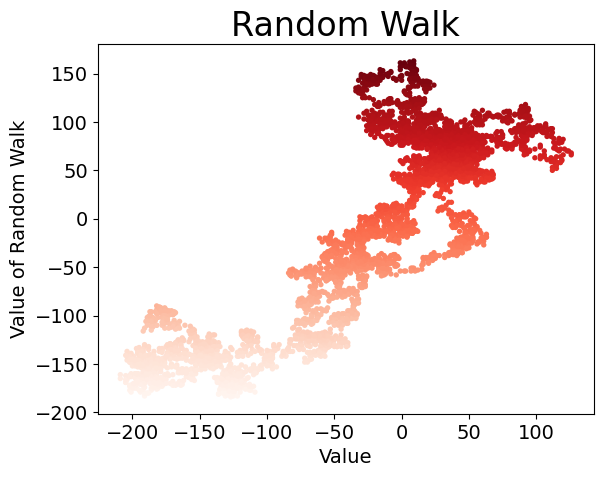
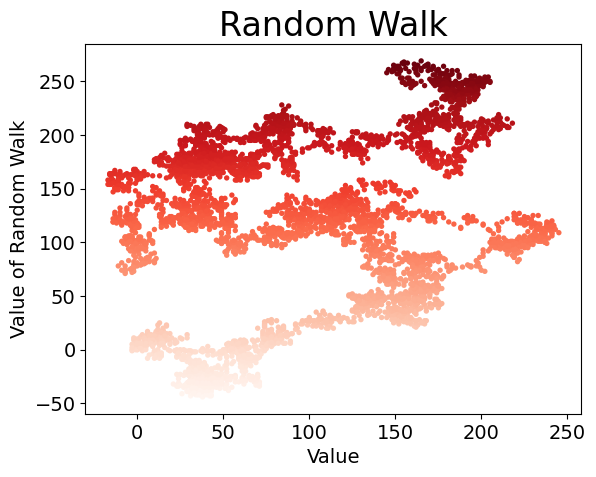
New change!

diff --git a/[3]Tools/Python/笔记/代码/k8/plot_rw_visual.py b/[3]Tools/Python/笔记/代码/k8/plot_rw_visual.py
@@ -1,0 +1,70 @@
+import matplotlib.pyplot as plt
+from random_walk import RandomWalk
+# ScalarMappable 用于创建映射关系，Normalize 用于规范化数值
+from matplotlib.cm import ScalarMappable
+from matplotlib.colors import Normalize
+
+if __name__ == '__main__':
+    # 创建一个RandomWalk实例，并将他包含的点都绘制出来
+    rw = RandomWalk()
+    rw.fill_walk()
+
+    # 设置绘图窗口的尺寸
+    plt.figure(dpi=128, figsize=(10, 6))
+
+    # Create a ScalarMappable to map values to colors
+    # 创建一个ScalarMappable对象，用于将数值映射到颜色
+    # 这里使用蓝色色图(cmap=plt.cm.Blues)，并设置归一化对象norm
+    # Normalize 类是 Matplotlib 的一部分，用于将数据值归一化到 [0, 1] 范围内。默认情况下，它对数据进行线性缩放。
+    # norm = Normalize()
+    # 颜色覆盖整个路径
+    norm = Normalize(vmin=0, vmax=len(rw.x_values))
+    # ScalarMappabl是Matplotlib中的一个对象，用于将数据值与颜色关联起来。
+    # 通常用于将一系列数据值映射到一个颜色映射上。
+    # cmap = plt.cm.Blues指定要使用的颜色映射。
+    # 在这种情况下，是一个蓝色颜色映射。你可以根据需要选择不同的颜色映射。
+    # norm = norm设置颜色映射的标准化方式，确保数据值正确映射到颜色映射上。
+    sm = ScalarMappable(cmap=plt.cm.Blues, norm=norm)
+    # 这一行将一个空数组设置给ScalarMappable对象。
+    # 这样做的目的是使用一个空数组初始化ScalarMappable。
+    # 稍后，你将使用漫步的点的索引更新这个数组，以获得相应的颜色。
+    sm.set_array([])
+
+    # Plotting the gradient line
+    for i in range(1, len(rw.x_values)):
+        # 通过循环绘制渐变线条，sm.to_rgba(i) 将索引 i 映射为对应颜色
+        # rw.x_values[i - 1:i + 1] 和 rw.y_values[i - 1:i + 1] 是当前点和前一个点的坐标，用于定义线段。
+        # color = sm.to_rgba(i) 设置线段的颜色。这里使用了ScalarMappable对象的to_rgba方法，将漫步的索引i映射到颜色。由于我们在之前的步骤中已经设置了
+        # ScalarMappable的数据数组为空，因此这里i实际上对应于漫步的点的索引。
+        plt.plot(rw.x_values[i-1:i+1], rw.y_values[i-1:i+1], linewidth=2, color=sm.to_rgba(i))
+
+    # Adding a colorbar to show the progression
+    # 添加颜色条，用于显示漫步的进展。label 参数设置颜色条的标签
+    plt.colorbar(sm, label='Walk Progression')
+
+    # Marking the start and end points
+    plt.scatter(rw.x_values[0], rw.y_values[0], c='green', edgecolors='none', s=30)
+    plt.scatter(rw.x_values[-1], rw.y_values[-1], c='red', edgecolors='none', s=30)
+
+    # Annotating the start point
+    plt.annotate('Start', xy=(rw.x_values[0], rw.y_values[0]), xytext=(20, -20),
+                 textcoords='offset points', arrowprops=dict(facecolor='green', arrowstyle='wedge,tail_width=0.5'))
+
+    # Annotating the end point
+    plt.annotate('End', xy=(rw.x_values[-1], rw.y_values[-1]), xytext=(-20, 20),
+                 textcoords='offset points', arrowprops=dict(facecolor='red', arrowstyle='wedge,tail_width=0.5'))
+    #
+    # xytext = (rw.x_values[-1] - 50, rw.y_values[-1] - 50)：这一部分指定了注释文本的文本位置，即注释文本离标注点的偏移。
+    # 在这里，通过将x和y的坐标都减去50，将文本位置设置在标注点的左上方。
+    # 如果你希望注释文本位于其他方向，可以调整这里的偏移值，例如(rw.x_values[-1] + 50, rw.y_values[-1] + 50)就会使得文本位于标注点的右下方
+    #
+    # textcoords = 'offset points'：这一部分指定了文本坐标的类型，即使用相对于数据点的偏移坐标。
+    #
+    # arrowprops = dict(facecolor='black', arrowstyle='wedge,tail_width=0.7')：这一部分定义了箭头的属性。
+    # facecolor指定箭头的颜色为黑色，arrowstyle指定箭头的样式为楔形，tail_width = 0.7控制箭头的尾巴宽度。
+
+    plt.title('Random Walk', fontsize=24)
+    plt.axis('off')
+
+    plt.savefig('plot_rw_visual.png', bbox_inches='tight')
+    plt.show()

diff --git a/[3]Tools/Python/笔记/代码/k8/random_walk.py b/[3]Tools/Python/笔记/代码/k8/random_walk.py
@@ -21,15 +21,7 @@ class RandomWalk():
         # 不断漫步，直到列表到达指定的长度
         while len(self.x_values) < self.num_points:
 
-            # 决定前进的方向以及沿着个方向前进的距离
-            x_direction = choice([1, -1])
-            x_distance = choice([0, 1, 2, 3, 4])
-            x_step = x_direction * x_distance
-
-            y_direction = choice([1, -1])
-            y_distance = choice([0, 1, 2, 3, 4])
-            y_step = y_direction * y_distance
-
+            x_step, y_step = self.get_step()
             # 拒绝原地踏步
             if x_step == 0 and y_step == 0:
                 continue
@@ -40,6 +32,18 @@ class RandomWalk():
 
             self.x_values.append(next_x)
             self.y_values.append(next_y)
+
+    def get_step(self):
+        # 决定前进的方向以及沿着个方向前进的距离
+        x_direction = choice([1, -1])
+        x_distance = choice([0, 1, 2, 3, 4])
+        x_step = x_direction * x_distance
+
+        y_direction = choice([1, -1])
+        y_distance = choice([0, 1, 2, 3, 4])
+        y_step = y_direction * y_distance
+        return x_step, y_step
+
 
 if __name__ == '__main__':
     random_walk = RandomWalk()

diff --git a/[3]Tools/Python/笔记/代码/k8/rw_visual.py b/[3]Tools/Python/笔记/代码/k8/rw_visual.py
@@ -13,6 +13,10 @@ if __name__ == '__main__':
         rw = RandomWalk()
         rw.fill_walk()
 
+        # 设置绘图窗口的尺寸: 用于指定图标的宽度，高度，分辨率和背景色
+        # 元组是绘图窗口的尺寸，单位是英寸, dpi是分辨率，更有效的利用可用的屏幕空间
+        plt.figure(dpi=128, figsize=(10, 6))
+
         point_numbers = list(range(rw.num_points))
         plt.scatter(rw.x_values, rw.y_values, c=point_numbers,
                     cmap=plt.cm.Blues, edgecolors='none', s=15)
